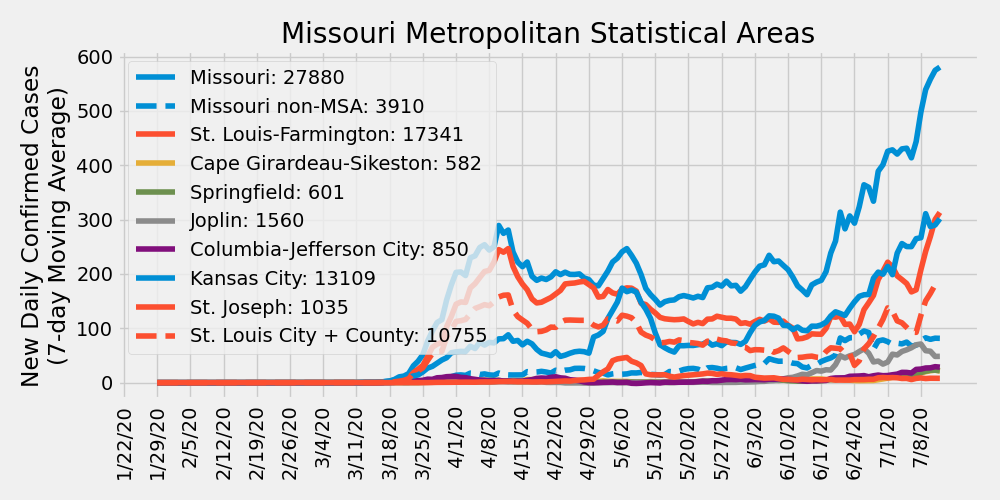
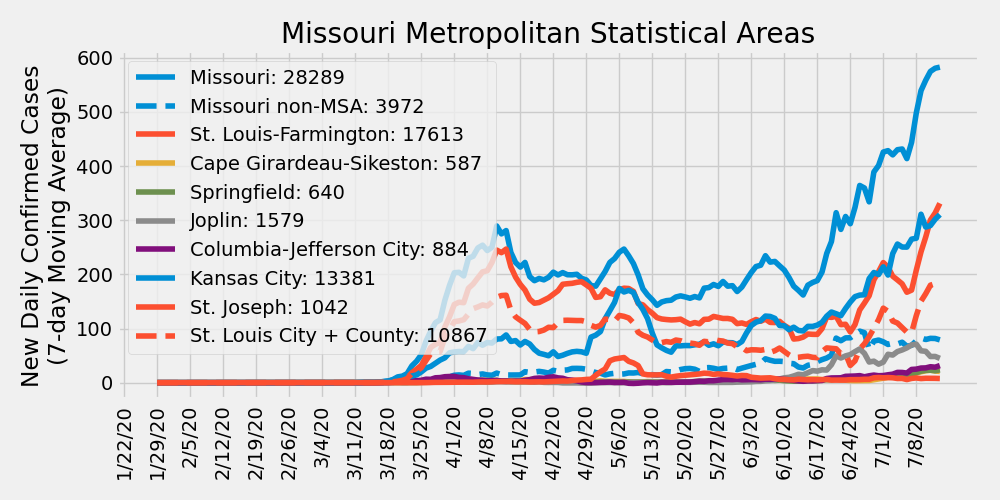
update 7/14/2020

diff --git a/ajvogt-analysis/missouri_analysis.md b/ajvogt-analysis/missouri_analysis.md
@@ -1,6 +1,6 @@
 # COVID-19 Missouri Statistics & Regional Breakdowns
 Author: Adam J. Vogt  
-Updated: 07/13/2020  
+Updated: 07/14/2020  
 Source: [COVID-19 Data Repository by the Center for Systems Science and Engineering (CSSE) at Johns Hopkins University](https://github.com/CSSEGISandData/COVID-19)  
 Source Code: `/ajvogt-analysis/mo_analysis_script.py`  
 Release Notes: [release_notes.md](https://github.com/ajvogt/COVID-19/blob/master/ajvogt-analysis/release_notes.md)
@@ -27,68 +27,68 @@ Legend shows cumulative confirmed cases
 ## Metropolitan Statistical Area (MSA) Counties
 | MSA | State | County | Total Cases | Total Deaths |
 |-----|-------|--------|---|---|
-| St. Louis-Farmington | Missouri | Lincoln | 119 | 1 |
+| St. Louis-Farmington | Missouri | Lincoln | 120 | 1 |
 | St. Louis-Farmington | Missouri | Warren | 57 | 0 |
-| St. Louis-Farmington | Missouri | Franklin | 279 | 18 |
-| St. Louis-Farmington | Missouri | Jefferson | 583 | 22 |
-| St. Louis-Farmington | Missouri | St. Charles | 1341 | 75 |
-| St. Louis-Farmington | Missouri | St. Louis | 7809 | 597 |
-| St. Louis-Farmington | Missouri | St. Louis City | 2946 | 158 |
-| St. Louis-Farmington | Missouri | St. Francois | 165 | 2 |
-| St. Louis-Farmington | Illinois | Monroe | 159 | 13 |
-| St. Louis-Farmington | Illinois | St. Clair | 2304 | 144 |
-| St. Louis-Farmington | Illinois | Madison | 1198 | 70 |
-| St. Louis-Farmington | Illinois | Macoupin | 69 | 3 |
-| St. Louis-Farmington | Illinois | Jersey | 43 | 1 |
+| St. Louis-Farmington | Missouri | Franklin | 283 | 18 |
+| St. Louis-Farmington | Missouri | Jefferson | 594 | 22 |
+| St. Louis-Farmington | Missouri | St. Charles | 1371 | 79 |
+| St. Louis-Farmington | Missouri | St. Louis | 7897 | 603 |
+| St. Louis-Farmington | Missouri | St. Louis City | 2970 | 159 |
+| St. Louis-Farmington | Missouri | St. Francois | 167 | 2 |
+| St. Louis-Farmington | Illinois | Monroe | 165 | 13 |
+| St. Louis-Farmington | Illinois | St. Clair | 2347 | 144 |
+| St. Louis-Farmington | Illinois | Madison | 1258 | 70 |
+| St. Louis-Farmington | Illinois | Macoupin | 70 | 3 |
+| St. Louis-Farmington | Illinois | Jersey | 44 | 1 |
 | St. Louis-Farmington | Illinois | Clinton | 246 | 16 |
-| St. Louis-Farmington | Illinois | Calhoun | 1 | 0 |
+| St. Louis-Farmington | Illinois | Calhoun | 2 | 0 |
 | St. Louis-Farmington | Illinois | Bond | 22 | 2 |
-| Cape Girardeau-Sikeston | Missouri | Cape Girardeau | 328 | 3 |
-| Cape Girardeau-Sikeston | Missouri | Bollinger | 22 | 0 |
+| Cape Girardeau-Sikeston | Missouri | Cape Girardeau | 330 | 3 |
+| Cape Girardeau-Sikeston | Missouri | Bollinger | 23 | 0 |
 | Cape Girardeau-Sikeston | Illinois | Alexander | 25 | 0 |
-| Cape Girardeau-Sikeston | Missouri | Scott | 207 | 12 |
-| Springfield | Missouri | Greene | 435 | 8 |
-| Springfield | Missouri | Christian | 76 | 1 |
-| Springfield | Missouri | Webster | 51 | 1 |
-| Springfield | Missouri | Polk | 21 | 0 |
+| Cape Girardeau-Sikeston | Missouri | Scott | 209 | 12 |
+| Springfield | Missouri | Greene | 469 | 9 |
+| Springfield | Missouri | Christian | 77 | 1 |
+| Springfield | Missouri | Webster | 54 | 1 |
+| Springfield | Missouri | Polk | 22 | 0 |
 | Springfield | Missouri | Dallas | 18 | 1 |
-| Joplin | Missouri | Jasper | 1008 | 11 |
-| Joplin | Missouri | Newton | 552 | 2 |
+| Joplin | Missouri | Jasper | 1019 | 11 |
+| Joplin | Missouri | Newton | 560 | 2 |
 | Columbia-Jefferson City | Missouri | Howard | 5 | 0 |
-| Columbia-Jefferson City | Missouri | Boone | 570 | 2 |
+| Columbia-Jefferson City | Missouri | Boone | 595 | 2 |
 | Columbia-Jefferson City | Missouri | Cooper | 28 | 0 |
-| Columbia-Jefferson City | Missouri | Moniteau | 68 | 1 |
-| Columbia-Jefferson City | Missouri | Cole | 103 | 2 |
-| Columbia-Jefferson City | Missouri | Callaway | 63 | 1 |
-| Columbia-Jefferson City | Missouri | Osage | 13 | 0 |
-| Kansas City | Missouri | Kansas City | 3113 | 34 |
-| Kansas City | Missouri | Jackson | 1586 | 44 |
-| Kansas City | Missouri | Clay | 558 | 13 |
-| Kansas City | Missouri | Cass | 205 | 8 |
-| Kansas City | Missouri | Platte | 154 | 6 |
+| Columbia-Jefferson City | Missouri | Moniteau | 66 | 1 |
+| Columbia-Jefferson City | Missouri | Cole | 111 | 2 |
+| Columbia-Jefferson City | Missouri | Callaway | 64 | 1 |
+| Columbia-Jefferson City | Missouri | Osage | 15 | 0 |
+| Kansas City | Missouri | Kansas City | 3157 | 34 |
+| Kansas City | Missouri | Jackson | 1610 | 44 |
+| Kansas City | Missouri | Clay | 565 | 13 |
+| Kansas City | Missouri | Cass | 207 | 8 |
+| Kansas City | Missouri | Platte | 156 | 6 |
 | Kansas City | Missouri | Lafayette | 103 | 2 |
 | Kansas City | Missouri | Ray | 31 | 0 |
 | Kansas City | Missouri | Clinton | 33 | 0 |
-| Kansas City | Missouri | Bates | 13 | 1 |
+| Kansas City | Missouri | Bates | 14 | 1 |
 | Kansas City | Missouri | Caldwell | 15 | 1 |
-| Kansas City | Kansas | Johnson | 2967 | 93 |
-| Kansas City | Kansas | Wyandotte | 3050 | 88 |
-| Kansas City | Kansas | Leavenworth | 1213 | 7 |
-| Kansas City | Kansas | Miami | 52 | 0 |
-| Kansas City | Kansas | Linn | 16 | 0 |
+| Kansas City | Kansas | Johnson | 3081 | 93 |
+| Kansas City | Kansas | Wyandotte | 3108 | 88 |
+| Kansas City | Kansas | Leavenworth | 1227 | 7 |
+| Kansas City | Kansas | Miami | 57 | 0 |
+| Kansas City | Kansas | Linn | 17 | 0 |
 | St. Joseph | Missouri | Andrew | 55 | 1 |
-| St. Joseph | Missouri | Buchanan | 938 | 5 |
+| St. Joseph | Missouri | Buchanan | 945 | 5 |
 | St. Joseph | Missouri | DeKalb | 16 | 0 |
 | St. Joseph | Kansas | Doniphan | 26 | 0 |
 | Missouri non-MSA | Missouri | Adair |  100 | 0 |
 | Missouri non-MSA | Missouri | Atchison |  6 | 0 |
 | Missouri non-MSA | Missouri | Audrain |  142 | 1 |
-| Missouri non-MSA | Missouri | Barry |  96 | 0 |
+| Missouri non-MSA | Missouri | Barry |  97 | 0 |
 | Missouri non-MSA | Missouri | Barton |  34 | 0 |
-| Missouri non-MSA | Missouri | Benton |  22 | 0 |
-| Missouri non-MSA | Missouri | Butler |  117 | 0 |
-| Missouri non-MSA | Missouri | Camden |  85 | 2 |
-| Missouri non-MSA | Missouri | Carroll |  31 | 0 |
+| Missouri non-MSA | Missouri | Benton |  23 | 0 |
+| Missouri non-MSA | Missouri | Butler |  118 | 0 |
+| Missouri non-MSA | Missouri | Camden |  87 | 2 |
+| Missouri non-MSA | Missouri | Carroll |  38 | 0 |
 | Missouri non-MSA | Missouri | Carter |  7 | 1 |
 | Missouri non-MSA | Missouri | Cedar |  12 | 0 |
 | Missouri non-MSA | Missouri | Chariton |  6 | 0 |
@@ -97,59 +97,59 @@ Legend shows cumulative confirmed cases
 | Missouri non-MSA | Missouri | Dade |  2 | 0 |
 | Missouri non-MSA | Missouri | Daviess |  11 | 0 |
 | Missouri non-MSA | Missouri | Dent |  5 | 0 |
-| Missouri non-MSA | Missouri | Douglas |  12 | 0 |
-| Missouri non-MSA | Missouri | Dunklin |  127 | 3 |
+| Missouri non-MSA | Missouri | Douglas |  13 | 0 |
+| Missouri non-MSA | Missouri | Dunklin |  134 | 3 |
 | Missouri non-MSA | Missouri | Gasconade |  15 | 0 |
 | Missouri non-MSA | Missouri | Gentry |  66 | 9 |
-| Missouri non-MSA | Missouri | Grundy |  21 | 1 |
-| Missouri non-MSA | Missouri | Harrison |  28 | 0 |
+| Missouri non-MSA | Missouri | Grundy |  22 | 1 |
+| Missouri non-MSA | Missouri | Harrison |  29 | 0 |
 | Missouri non-MSA | Missouri | Henry |  25 | 3 |
 | Missouri non-MSA | Missouri | Hickory |  1 | 0 |
 | Missouri non-MSA | Missouri | Holt |  1 | 0 |
 | Missouri non-MSA | Missouri | Howell |  49 | 0 |
 | Missouri non-MSA | Missouri | Iron |  3 | 0 |
 | Missouri non-MSA | Missouri | Knox |  2 | 0 |
-| Missouri non-MSA | Missouri | Laclede |  87 | 1 |
-| Missouri non-MSA | Missouri | Lawrence |  59 | 1 |
-| Missouri non-MSA | Missouri | Lewis |  8 | 1 |
-| Missouri non-MSA | Missouri | Livingston |  25 | 0 |
-| Missouri non-MSA | Missouri | McDonald |  707 | 1 |
+| Missouri non-MSA | Missouri | Laclede |  89 | 1 |
+| Missouri non-MSA | Missouri | Lawrence |  60 | 2 |
+| Missouri non-MSA | Missouri | Lewis |  9 | 1 |
+| Missouri non-MSA | Missouri | Livingston |  26 | 0 |
+| Missouri non-MSA | Missouri | McDonald |  712 | 1 |
 | Missouri non-MSA | Missouri | Macon |  25 | 0 |
 | Missouri non-MSA | Missouri | Maries |  7 | 0 |
-| Missouri non-MSA | Missouri | Marion |  31 | 0 |
+| Missouri non-MSA | Missouri | Marion |  33 | 0 |
 | Missouri non-MSA | Missouri | Mercer |  7 | 0 |
-| Missouri non-MSA | Missouri | Miller |  24 | 0 |
+| Missouri non-MSA | Missouri | Miller |  25 | 0 |
 | Missouri non-MSA | Missouri | Mississippi |  99 | 0 |
-| Missouri non-MSA | Missouri | Montgomery |  22 | 0 |
+| Missouri non-MSA | Missouri | Montgomery |  23 | 0 |
 | Missouri non-MSA | Missouri | Morgan |  28 | 0 |
 | Missouri non-MSA | Missouri | New Madrid |  52 | 1 |
 | Missouri non-MSA | Missouri | Nodaway |  26 | 0 |
 | Missouri non-MSA | Missouri | Oregon |  9 | 0 |
 | Missouri non-MSA | Missouri | Ozark |  2 | 0 |
-| Missouri non-MSA | Missouri | Pemiscot |  116 | 6 |
-| Missouri non-MSA | Missouri | Perry |  170 | 3 |
-| Missouri non-MSA | Missouri | Pettis |  148 | 1 |
+| Missouri non-MSA | Missouri | Pemiscot |  120 | 6 |
+| Missouri non-MSA | Missouri | Perry |  172 | 3 |
+| Missouri non-MSA | Missouri | Pettis |  156 | 1 |
 | Missouri non-MSA | Missouri | Phelps |  53 | 0 |
 | Missouri non-MSA | Missouri | Pike |  40 | 1 |
-| Missouri non-MSA | Missouri | Pulaski |  143 | 1 |
+| Missouri non-MSA | Missouri | Pulaski |  141 | 1 |
 | Missouri non-MSA | Missouri | Putnam |  3 | 0 |
 | Missouri non-MSA | Missouri | Ralls |  10 | 0 |
 | Missouri non-MSA | Missouri | Randolph |  17 | 0 |
 | Missouri non-MSA | Missouri | Reynolds |  10 | 0 |
 | Missouri non-MSA | Missouri | Ripley |  20 | 0 |
 | Missouri non-MSA | Missouri | Ste. Genevieve |  24 | 1 |
-| Missouri non-MSA | Missouri | Saline |  310 | 5 |
+| Missouri non-MSA | Missouri | Saline |  314 | 5 |
 | Missouri non-MSA | Missouri | Schuyler |  5 | 0 |
 | Missouri non-MSA | Missouri | Scotland |  11 | 1 |
-| Missouri non-MSA | Missouri | Shannon |  27 | 0 |
+| Missouri non-MSA | Missouri | Shannon |  28 | 0 |
 | Missouri non-MSA | Missouri | Shelby |  4 | 0 |
 | Missouri non-MSA | Missouri | Stoddard |  153 | 9 |
 | Missouri non-MSA | Missouri | Stone |  22 | 0 |
-| Missouri non-MSA | Missouri | Sullivan |  117 | 0 |
-| Missouri non-MSA | Missouri | Taney |  123 | 3 |
+| Missouri non-MSA | Missouri | Sullivan |  118 | 0 |
+| Missouri non-MSA | Missouri | Taney |  126 | 3 |
 | Missouri non-MSA | Missouri | Texas |  11 | 0 |
-| Missouri non-MSA | Missouri | Vernon |  32 | 0 |
-| Missouri non-MSA | Missouri | Washington |  26 | 1 |
-| Missouri non-MSA | Missouri | Wayne |  5 | 0 |
+| Missouri non-MSA | Missouri | Vernon |  34 | 0 |
+| Missouri non-MSA | Missouri | Washington |  27 | 1 |
+| Missouri non-MSA | Missouri | Wayne |  6 | 0 |
 | Missouri non-MSA | Missouri | Worth |  4 | 0 |
-| Missouri non-MSA | Missouri | Wright |  38 | 0 |
+| Missouri non-MSA | Missouri | Wright |  39 | 0 |
